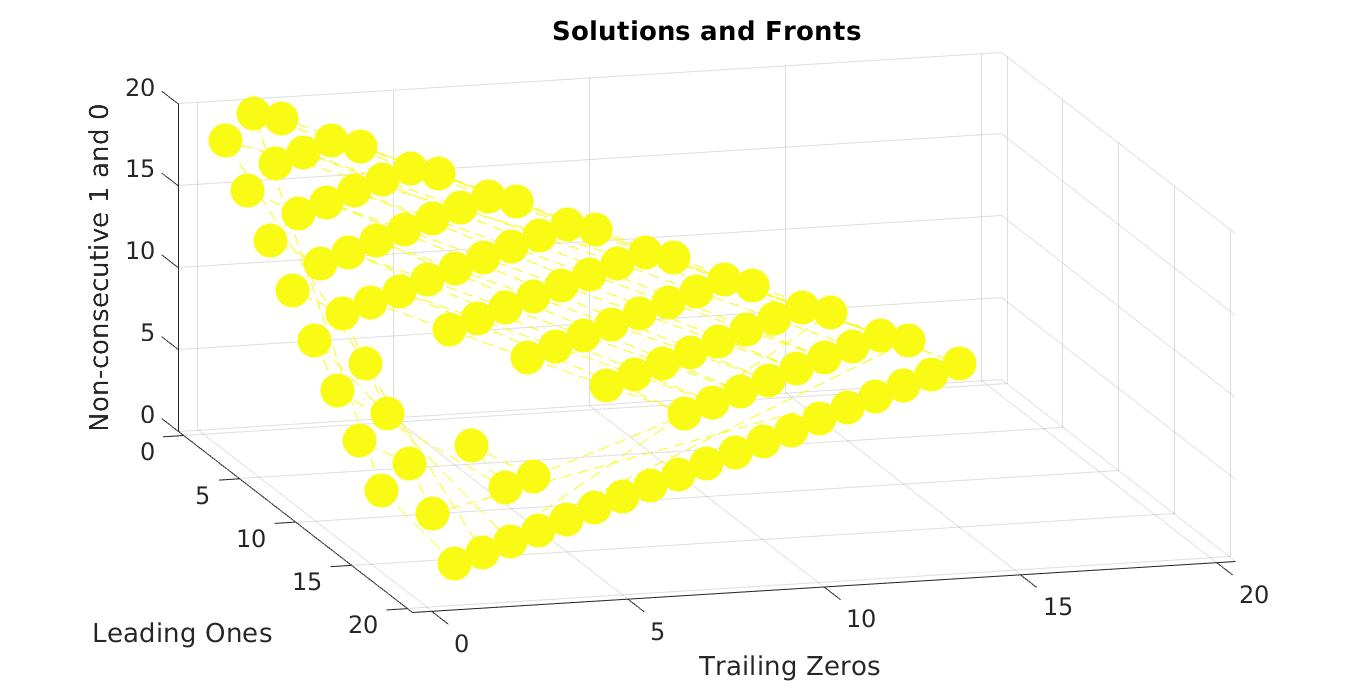
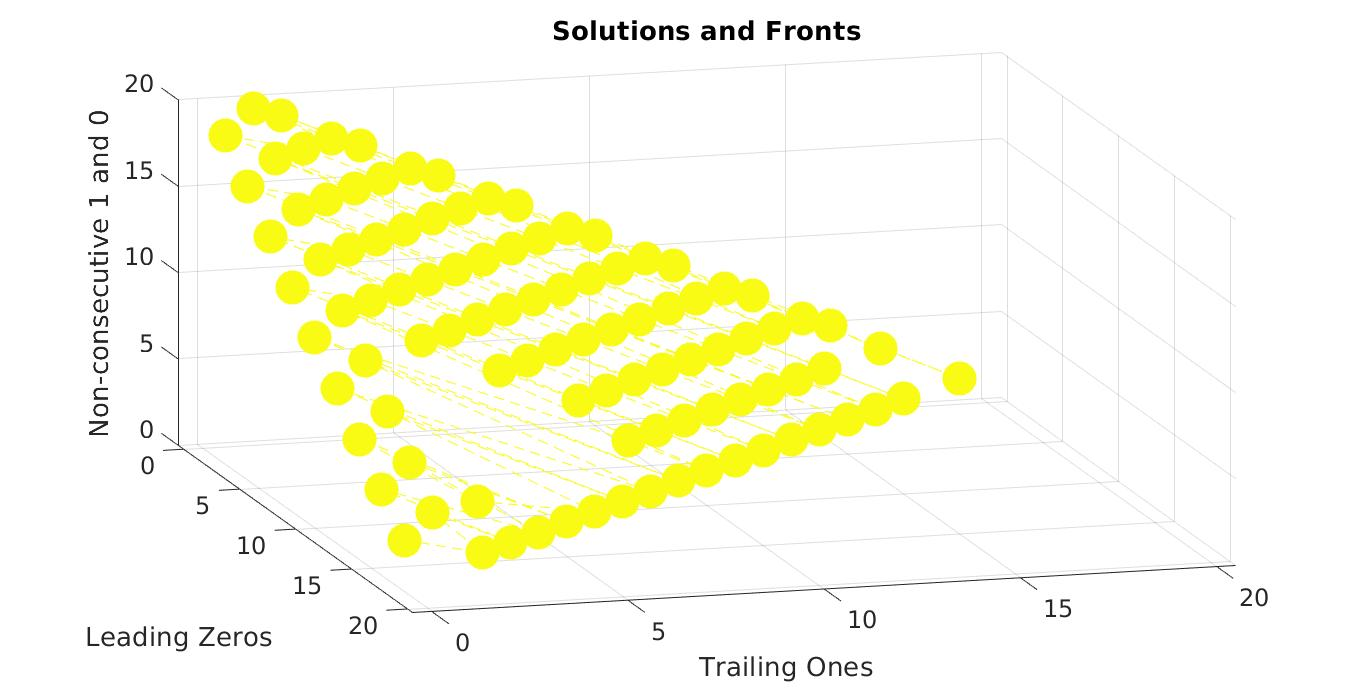
added correct gif and plots

diff --git a/assignment_4/code/displayFronts.m b/assignment_4/code/displayFronts.m
@@ -31,16 +31,16 @@ for iFront=1:nFront
          ,'MarkerFaceColor', colors(iFront,:),'MarkerSize',25)
     
     hold on
-%     if iFront ==1
-%         text(fitness((front==iFront),1)+0.35,...
-%             fitness((front==iFront),2)-(0.25*~mod(iFront,2)),...
-%             num2str(pop( (front==iFront),:)))
-%     end
+    if iFront ==1
+        text(fitness((front==iFront),1)+0.35,...
+            fitness((front==iFront),2)-(0.25*~mod(iFront,2)),...
+            num2str(pop( (front==iFront),:)))
+    end
 %         text(fitness((front==iFront),1)+0.35,...
 %             fitness((front==iFront),2)-(0.25*~mod(iFront,2)),...
 %             num2str(pop( (front==iFront),:)))
 end
-xlabel('Leading Ones');ylabel('Trailing Zeros');
+xlabel('Leading Zeros');ylabel('Trailing Ones');
 axis([-0.5 nGenes+0.5 -0.5 nGenes+0.5]); hold off;
 title('Solutions and Fronts');
 grid on;

diff --git a/assignment_4/code/NSGA2.m b/assignment_4/code/NSGA2.m
@@ -2,13 +2,13 @@ function output = NSGA2(pop, popSize, plotgif)
     R = unique(pop, 'rows');
     N = popSize;
     r_size = size(R, 1);
-    fitness = calculateFitness3(R);
+    fitness = calculateFitness(R);
     front = domination_sort(fitness);
 
     if plotgif == 1
         % plot whole pop
-        pause(0.5);
-        displayFronts3d(front, fitness, R);
+        pause(0.1);
+        displayFronts(front, fitness, R);
         gif
         hold on
     end
@@ -37,7 +37,7 @@ function output = NSGA2(pop, popSize, plotgif)
     if plotgif == 1
         % plot whole pop with next gen markers
 %         [C, greenIndices, ib] = intersect(R, new_pop, 'rows');
-%         pause(0.2);
+%         pause(0.05);
 %         displayFrontsWithMarkers(front, fitness, R, greenIndices);
 %         gif
 %         hold on

diff --git a/assignment_4/code/displayFrontsWithMarkers.m b/assignment_4/code/displayFrontsWithMarkers.m
@@ -40,11 +40,11 @@ for iFront=1:nFront
 %             fitness((front==iFront),2)-(0.25*~mod(iFront,2)),...
 %             num2str(pop( (front==iFront),:)))
 end
-xlabel('Leading Ones');ylabel('Trailng Zeros');
+xlabel('Leading Zeros');ylabel('Trailing Ones');
 
 plot(fitness(greenIndices, 1), fitness(greenIndices, 2), 'og', 'MarkerSize', 12)
 somearray = 1:popSize;
-redIndices = somearray(~ismember(somearray,greenIndices))
+redIndices = somearray(~ismember(somearray,greenIndices));
 plot(fitness(redIndices, 1), fitness(redIndices, 2), 'xr', 'MarkerSize', 12)
 
 axis([-0.5 nGenes+0.5 -0.5 nGenes+0.5]); hold off;

diff --git a/assignment_4/code/MOO.m b/assignment_4/code/MOO.m
@@ -1,17 +1,17 @@
 %% single experiment
 
-popSize = 10;
-nGenes = 6;
-nGen = 10;
+popSize = 100;
+nGenes = 20;
+nGen = 100;
 plotgif = 0;
 use_nsga2 = 1
 if plotgif == 1
-    gif('myfile.gif');
+    gif('myfile.gif','DelayTime',1/10,'frame',gcf);
 end
 tic;
 output = my_ga(nGenes, nGen, popSize, use_nsga2, plotgif);
 toc
-displayFronts3d(output.front, output.fitness, output.pop);
+displayFronts(output.front, output.fitness, output.pop);
 % output.front==1
 hold off;
 

diff --git a/assignment_4/code/displayFronts3d.m b/assignment_4/code/displayFronts3d.m
@@ -40,7 +40,7 @@ for iFront=1:nFront
 %             fitness((front==iFront),2)-(0.25*~mod(iFront,2)),...
 %             num2str(pop( (front==iFront),:)))
 end
-xlabel('Leading Ones');ylabel('Trailing Zeros');zlabel('Non-consecutive 1 and 0')
+xlabel('Leading Zeros');ylabel('Trailing Ones');zlabel('Non-consecutive 1 and 0')
 axis([-0.5 nGenes+0.5 -0.5 nGenes+0.5]); hold off;
 title('Solutions and Fronts');
 grid on;

diff --git a/assignment_4/code/domination.m b/assignment_4/code/domination.m
@@ -1,5 +1,6 @@
 function truth_value = domination(a,b)
-    if size(a,1) == 2
+%     size(a,2)
+    if size(a,2) == 2
         truth_value =  (a(1) > b(1) && a(2) >= b(2))|| (a(1) >= b(1) && a(2) > b(2));
     else
         truth_value =  (a(1) > b(1) && a(2) >= b(2) && a(3) >= b(3)) || (a(1) >= b(1) && a(2) > b(2) && a(3) >= b(3)) || (a(1) >= b(1) && a(2) >= b(2) && a(3) > b(3));
